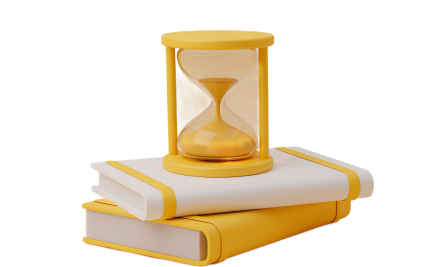
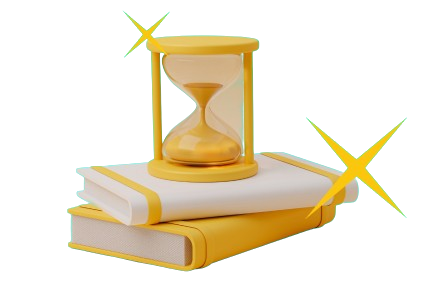
finalizando background

diff --git a/index.html b/index.html
@@ -118,27 +118,43 @@
       cursor: pointer;
     }
 
-    #duvidas{
-      background-image: url("src/fonts/exclamacao-esquerda-inferior.svg"), url("src/fonts/exclamacao-esquerda-topo.svg"), url("src/fonts/exclamacao-direita-inferior.svg") ;
-      background-repeat:  no-repeat, no-repeat, no-repeat;
-      background-position:  10% 75% ,15% 10%, 80% 70%;
+    #star1-bg {
+      background-image: url("src/fonts/estrela1.svg");
+      background-repeat: no-repeat;
+      background-position: 110% -10%;
     }
 
-    #playlist{
-      background-image: url("src/fonts/play-superior.png"), url("src/fonts/play-inferior.png");
-      background-repeat: no-repeat, no-repeat;
-      background-position: 100% 0%, 0% 100%;
-    }
+    @media screen and (min-width: 1200px) {
+      #calendario-bg {
+        display: block;
+        background-image: url("src/fonts/circulo-verde.svg"), url("src/fonts/circulo-amarelo.png"), url("src/fonts/circulo-azul.svg");
+        background-repeat: no-repeat, no-repeat, no-repeat;
+        background-position: -10% 10%, 80% -20%, 100% 100%;
+      }
 
-    #historia-bg{
-      background-image: url("src/fonts/fundo.png") ,url("src/fonts/livro-historia.png") ;
-      background-repeat: repeat, no-repeat ;
-      background-position: center , 85% 0%;
-    }
+      #duvidas {
+        display: block;
+        background-image: url("src/fonts/exclamacao-esquerda-inferior.svg"), url("src/fonts/exclamacao-esquerda-topo.png"), url("src/fonts/exclamacao-direita-inferior.png"), url("src/fonts/exclamacao-direita-topo.png");
+        background-repeat: no-repeat, no-repeat, no-repeat, no-repeat;
+        background-position: 10% 90%, 15% 10%, 80% 100%, 100% 0%;
 
-    /* #star-bg{
-      background-image: ;
-    } */
+      }
+
+      #playlist {
+        display: block;
+        background-image: url("src/fonts/play-superior.png"), url("src/fonts/play-inferior.png");
+        background-repeat: no-repeat, no-repeat;
+        background-position: 100% 0%, 0% 100%;
+      }
+
+      #historia-bg {
+        display: block;
+        background-image: url("src/fonts/fundo.png"), url("src/fonts/livro-historia.png"), url("src/fonts/curiosidade-historia.png");
+        background-repeat: repeat, no-repeat, no-repeat;
+        background-position: center, 85% 0%, 100% 100%;
+      }
+
+    }
   </style>
 </head>
 
@@ -170,7 +186,7 @@
   </header>
 
 
-  <!-- glossário -->
+  <!-- Mapa -->
   <section class="conheca-je__container mt-6 ">
     <div class="conheca-je__glossario__grid">
 
@@ -187,7 +203,7 @@
             <div class="conheca-je__glossario__regioes mt-16  ">
               <ul class="conheca-je__glossario__regioes--caixa">
                 <li class="item">
-                  <a href="#" class="link" tab="norte">NORTE</a>
+                  <a href="#" class="link link--ativo" tab="norte">NORTE</a>
                 </li>
                 <!-- <i class='bx bxs-right-arrow'></i> -->
                 <li class="item">
@@ -209,7 +225,7 @@
 
               <!-- Norte -->
 
-              <div class="tabs tab-norte ">
+              <div class="tabs tab-norte  tab--ativo">
                 <ul>
                   <li>
                     <a href="https://www.tre-ac.jus.br/#/" class="linkinterno">ACRE</a>
@@ -378,7 +394,7 @@
 
       <div class="conheca-je__quiz__box">
         <div>
-          <img src="src/fonts/quiz 1.png" class="conheca-je__quiz__hide" alt="quiz-balao-pensamento">
+          <img src="src/fonts/quiz-balao.png" class="conheca-je__quiz__hide" alt="quiz-balao-pensamento">
         </div>
         <div class="grid gap-4 content-around">
           <div class="conheca-je__quiz__fonte-texto1 ">Você sabe o que a Justiça Eleitoral faz?</div>
@@ -427,17 +443,19 @@
         </div>
       </div>
 
+      <!-- Glossário eleitoral -->
       <div class="conheca-je__quiz__box-tamanho-glossario conheca-je__quiz__grid-glossario bg-no-repeat bg-right-top"
-      style="background-image: url(src/fonts/colchete-cima.svg);">
+        style="background-image: url(src/fonts/colchete-cima.svg);">
 
         <div class="">
           <img class="hidden sm:block" src="src/fonts/livro-quiz.png" alt="">
         </div>
-        <div class="space-y-4 py-10 bg-no-repeat bg-right-bottom" style="background-image: url(src/fonts/colchete-baixo.svg);">
-       
+        <div class="space-y-4 py-10 bg-no-repeat bg-right-bottom"
+          style="background-image: url(src/fonts/colchete-baixo.svg);">
+
           <ul>
             <li>
-              <a href="https://tailwindcss.com/docs/grid-template-columns"
+              <a href="https://www.tse.jus.br/servicos-eleitorais/glossario/glossario-eleitoral"
                 class="conheca-je__quiz__fonte-glossario">Glossário Eleitoral</a>
               <i class='bx bx-link-external text-4xl'></i>
             </li>
@@ -446,7 +464,7 @@
             O glossario Eleitoral Brasileiro oferece definições e explicações de termos relacionados
             ao sistema eleitoral brasileiro, incluindo informações históricas e visuais.
           </div>
-       
+
         </div>
 
       </div>
@@ -675,11 +693,11 @@
   </section>
 
   <!-- Perguntas Frequentes -->
-  <section class="relative conheca-je__container conheca-je__perguntas">
+  <section class="relative conheca-je__container conheca-je__perguntas" id="duvidas">
 
 
 
-    <div class="relative conheca-je__perguntas  conheca-je__perguntas__alinhar " id="duvidas">
+    <div class="relative conheca-je__perguntas  conheca-je__perguntas__alinhar ">
       <div class="conheca-je__perguntas__alinhar-centro ">
         <h1 class="conheca-je__perguntas__fonte-titulo ">Perguntas <b>Frequentes</b></h1>
       </div>
@@ -690,6 +708,51 @@
           <div class="relative top-[5px] left-[5px] conheca-je__perguntas__box-borda2">
             <div class="accordion-header conheca-je__perguntas__alinhar-entre ">
               <h1 class="conheca-je__perguntas__fonte-subtitulo">Quais são os aplicativos oficiais da JE?</h1>
+              <i class='bx bx-chevron-down text-3xl text-black'></i>
+            </div>
+
+            <div class="accordion-body">
+              <div class="p-4 ">
+                <p>
+                  At vero eos et accusamus et iusto odio dignissimos ducimus qui
+                  blanditiis praesentium voluptatum deleniti atque corrupti quos dolores et
+                  quas molestias excepturi sint occaecati cupiditate non provident, similique
+                  sunt in culpa qui officia deserunt mollitia animi, id est laborum et dolorum fuga.
+                </p>
+              </div>
+            </div>
+          </div>
+        </div>
+      </div>
+
+      <div class="conheca-je conheca-je__perguntas__box-tamanho">
+        <div class="conheca-je__perguntas__box-borda">
+          <div class="relative top-[5px] left-[5px] conheca-je__perguntas__box-borda2">
+            <div class="accordion-header conheca-je__perguntas__alinhar-entre acti">
+              <span class="conheca-je__perguntas__fonte-subtitulo">Quais são os órgãos da JE? </span>
+              <i class='bx bx-chevron-down text-3xl text-black'></i>
+            </div>
+
+            <div class="accordion-body">
+              <div class="p-4 ">
+                <p>
+                  At vero eos et accusamus et iusto odio dignissimos ducimus qui
+                  blanditiis praesentium voluptatum deleniti atque corrupti quos dolores et
+                  quas molestias excepturi sint occaecati cupiditate non provident, similique
+                  sunt in culpa qui officia deserunt mollitia animi, id est laborum et dolorum fuga.
+                </p>
+              </div>
+            </div>
+          </div>
+        </div>
+      </div>
+
+      <div class="conheca-je conheca-je__perguntas__box-tamanho">
+        <div class="conheca-je__perguntas__box-borda">
+          <div class="relative top-[5px] left-[5px] conheca-je__perguntas__box-borda2">
+            <div class="accordion-header conheca-je__perguntas__alinhar-entre">
+              <span class="conheca-je__perguntas__fonte-subtitulo">Como faço para acompanhar um processo
+                eleitoral?</span>
               <i class='bx bx-chevron-down text-3xl text-black'></i>
             </div>
 
@@ -848,7 +911,7 @@
   <!-- Playlists -->
   <section class="conheca-je__playlists__bg " id="playlist">
 
-    <div class="conheca-je__container space-y-16 conheca-je__playlists__alinhar" >
+    <div class="conheca-je__container space-y-16 conheca-je__playlists__alinhar">
       <div class="conheca-je__playlists__alinhar-titulo">
         <div class="conheca-je__playlists__fonte-titulo">
           <h1>PLAYLISTS</h1>
@@ -1035,14 +1098,26 @@
 
     <div class="conheca-je__container conheca-je__historia__alinhar-conteudo ">
       <!-- titulo -->
-      <div>
-        <div class="conheca-je__historia__box-borda ">
-          <div class="conheca-je__historia__box-borda1 ">
-            <h1 class="conheca-je__historia__fonte-titulo">HISTÓRIA</h1>
+
+      <div class="conheca-je__historia__box-borda">
+        <div class="conheca-je__historia__box-borda1">
+          <!-- Utilize a posição relativa para permitir que a imagem seja posicionada de forma absoluta em relação a este elemento -->
+          <div class="position-relative">
+            <!-- Coloque a imagem dentro do elemento com posição relativa -->
+            <img src="src/fonts/estrela1.svg" alt="" class="absolute top-[-20px] right-[-10px]">
+            <h1 class="conheca-je__historia__fonte-titulo ">HISTÓRIA</h1>
           </div>
         </div>
-        <h1 class="conheca-je__historia__fonte-subtitulo">DA JUSTIÇA ELEITORAL</h1>
       </div>
+
+      <!-- Corrigindo o posicionamento da estrela2 -->
+      <div class=" max-w-fit relative">
+        <img src="src/fonts/estrela2.svg" alt="" class="absolute  right-0 top-[-25px]">
+        <div class="conheca-je__historia__fonte-subtitulo px">DA JUSTIÇA ELEITORAL</div>
+      </div>
+
+
+
 
       <!-- conteudo -->
       <div class="conheca-je__historia__alinhar-grid">
@@ -1072,15 +1147,16 @@
             </div>
           </div>
 
+          <!-- voto feminino -->
           <div class="conheca-je conheca-je__historia__box-tamanho  ">
             <div class="conheca-je__historia__box-borda">
               <div class=" conheca-je__historia__box-borda2 ">
-                <div class="accordion-header conheca-je__historia__alinhar-entre">
+                <div class="accordion-header conheca-je__historia__alinhar-entre active">
                   <span class="conheca-je__historia__fonte-topicos">HISTÓRIA DO VOTO FEMININO NO BRASIL</span>
                   <i class='bx bx-chevron-down text-3xl'></i>
                 </div>
 
-                <div class="accordion-body ">
+                <div class="accordion-body  accordion-body--ativo">
                   <div class="p-4 ">
                     <div class="conheca-je__historia__alinhar-centro p-4">
                       <img src="src/fonts/mulher-voto.png" alt="voto-feminino">
@@ -1124,7 +1200,7 @@
             <div class="conheca-je__historia__regioes basis-1/3">
               <ul class="conheca-je__historia__regioes--caixa conheca-je__historia">
                 <li class="item2">
-                  <a href="#" class="link2 " tab="1930">1930</a>
+                  <a href="#" class="link2 link2--ativo" tab="1930">1930</a>
                 </li>
                 <li class="item2">
                   <a href="#" class="link2 " tab="1932">1932</a>
@@ -1168,7 +1244,7 @@
             <div class="conheca-je__historia__conteudo  basis-2/3">
 
               <!-- 1930 -->
-              <div class="tabs tab-1930  conheca-je__historia__posicao-informacao">
+              <div class="tabs tab-1930 tab--ativo  conheca-je__historia__posicao-informacao">
                 <h1 class="conheca-je__historia__fonte-titulo-timeline ">1930</h1>
                 <p class="conheca-je__historia__fonte-conteudo">3 DE NOVEMBRO: Data em que o governo provisório de
                   Getulio Vargas enviou ao Congresso Nacional o
@@ -1299,7 +1375,7 @@
   </section>
 
   <!-- 90 anos je -->
-  <section>
+  <section id="calendario-bg">
     <div class="conheca-je__container py-10">
       <!-- 90 anos -->
       <div class="conheca-je__90anos__tamanho-titulo conheca-je__90anos__estilo-titulo">

diff --git a/src/scss/main.scss b/src/scss/main.scss
@@ -7,10 +7,12 @@
 
 // *{
 //     border: 1px solid hotpink;
-//     font-family: 'Unbounded', sans-serif;  
-//     font-family: 'Space Grotesk', sans-serif; 
-    
 // }
+
+*{
+    font-family: 'Unbounded', sans-serif;  
+    font-family: 'Space Grotesk', sans-serif; 
+}
 
 
 p {
@@ -78,3 +80,31 @@ p {
 
     
 }
+
+@layer components {
+    .accordion-header:hover .conheca-je__perguntas__fonte-subtitulo {
+      color: black;
+    }
+  
+    .accordion-header.active .conheca-je__perguntas__fonte-subtitulo {
+      color: black;
+    }
+  
+    .accordion-header {
+      @apply py-4 px-6 cursor-pointer;
+    }
+  
+    .accordion-header.active i {
+      @apply transition ease-in-out duration-300;
+      transform: rotateX(180deg);
+    }
+  
+    .accordion-body {
+      @apply max-h-0 overflow-hidden transition-all duration-200 ease-out;
+    }
+  
+    .accordion-header.active + .accordion-body {
+      max-height: fit-content;
+    }
+  }
+  

diff --git a/src/js/calendario.js b/src/js/calendario.js
@@ -1,6 +1,7 @@
  // variaveis globais
  let nav = 0;
- let clicked = null;
+ let clicked = null ;
+ 
  let predefinedEvents = [
    { date: '3/15/2022', data: '15 DE MARÇO DE 2022', title: 'LOCAL: TSE', acao: 'Arrecadação de alimentos especiais para transplantados de medula óssea – etapa da Campanha "90 dias solidários"', detalhes: "Ação realizada em parceria com a HATMO, com encerramento em 29 de julho" },
    { date: '2/20/2022', data: '20 DE FEVEREIRO DE 2022', title: 'LOCAL: TSE', acao: 'Arrecadação de alimentos especiais para transplantados de medula óssea – etapa da Campanha "90 dias solidários"', detalhes: "Ação realizada em parceria com a HATMO, com encerramento em 29 de julho" },
@@ -39,6 +40,7 @@
  function load() {
    const date = new Date(2022, 0, 1); // Inicia em janeiro de 2022
 
+   
    //mudar titulo do mês:
    if (nav !== 0) {
      date.setMonth(date.getMonth() + nav);

diff --git a/src/scss/_perguntas.scss b/src/scss/_perguntas.scss
@@ -1,21 +1,3 @@
-@layer components{
-    .accordion-header:hover .conheca-je__perguntas__fonte-subtitulo {
-        color: black ;
-    }
-    .accordion-header.active .conheca-je__perguntas__fonte-subtitulo {
-        color: black;
-    }    
-    .accordion-header {
-        @apply py-4 px-6 cursor-pointer ;
-    }
-    .accordion-header.active i {
-        @apply transition ease-in-out duration-300 ;
-        transform: rotateX(180deg) ;
-    }
-    .accordion-body {
-        @apply max-h-0 overflow-hidden transition-all duration-200 ease-out ;
-    }
-}
 
 
 &__perguntas {

diff --git a/src/scss/_historia.scss b/src/scss/_historia.scss
@@ -1,15 +1,4 @@
-@layer components{
-    .accordion-header {
-        @apply py-4 px-6 cursor-pointer ;
-    }
-    .accordion-header.active i {
-        @apply transition ease-in-out duration-300 ;
-        transform: rotateX(180deg) ;
-    }
-    .accordion-body {
-        @apply max-h-0 overflow-hidden transition-all duration-200 ease-out ;
-    }
-}
+
 
 
 
